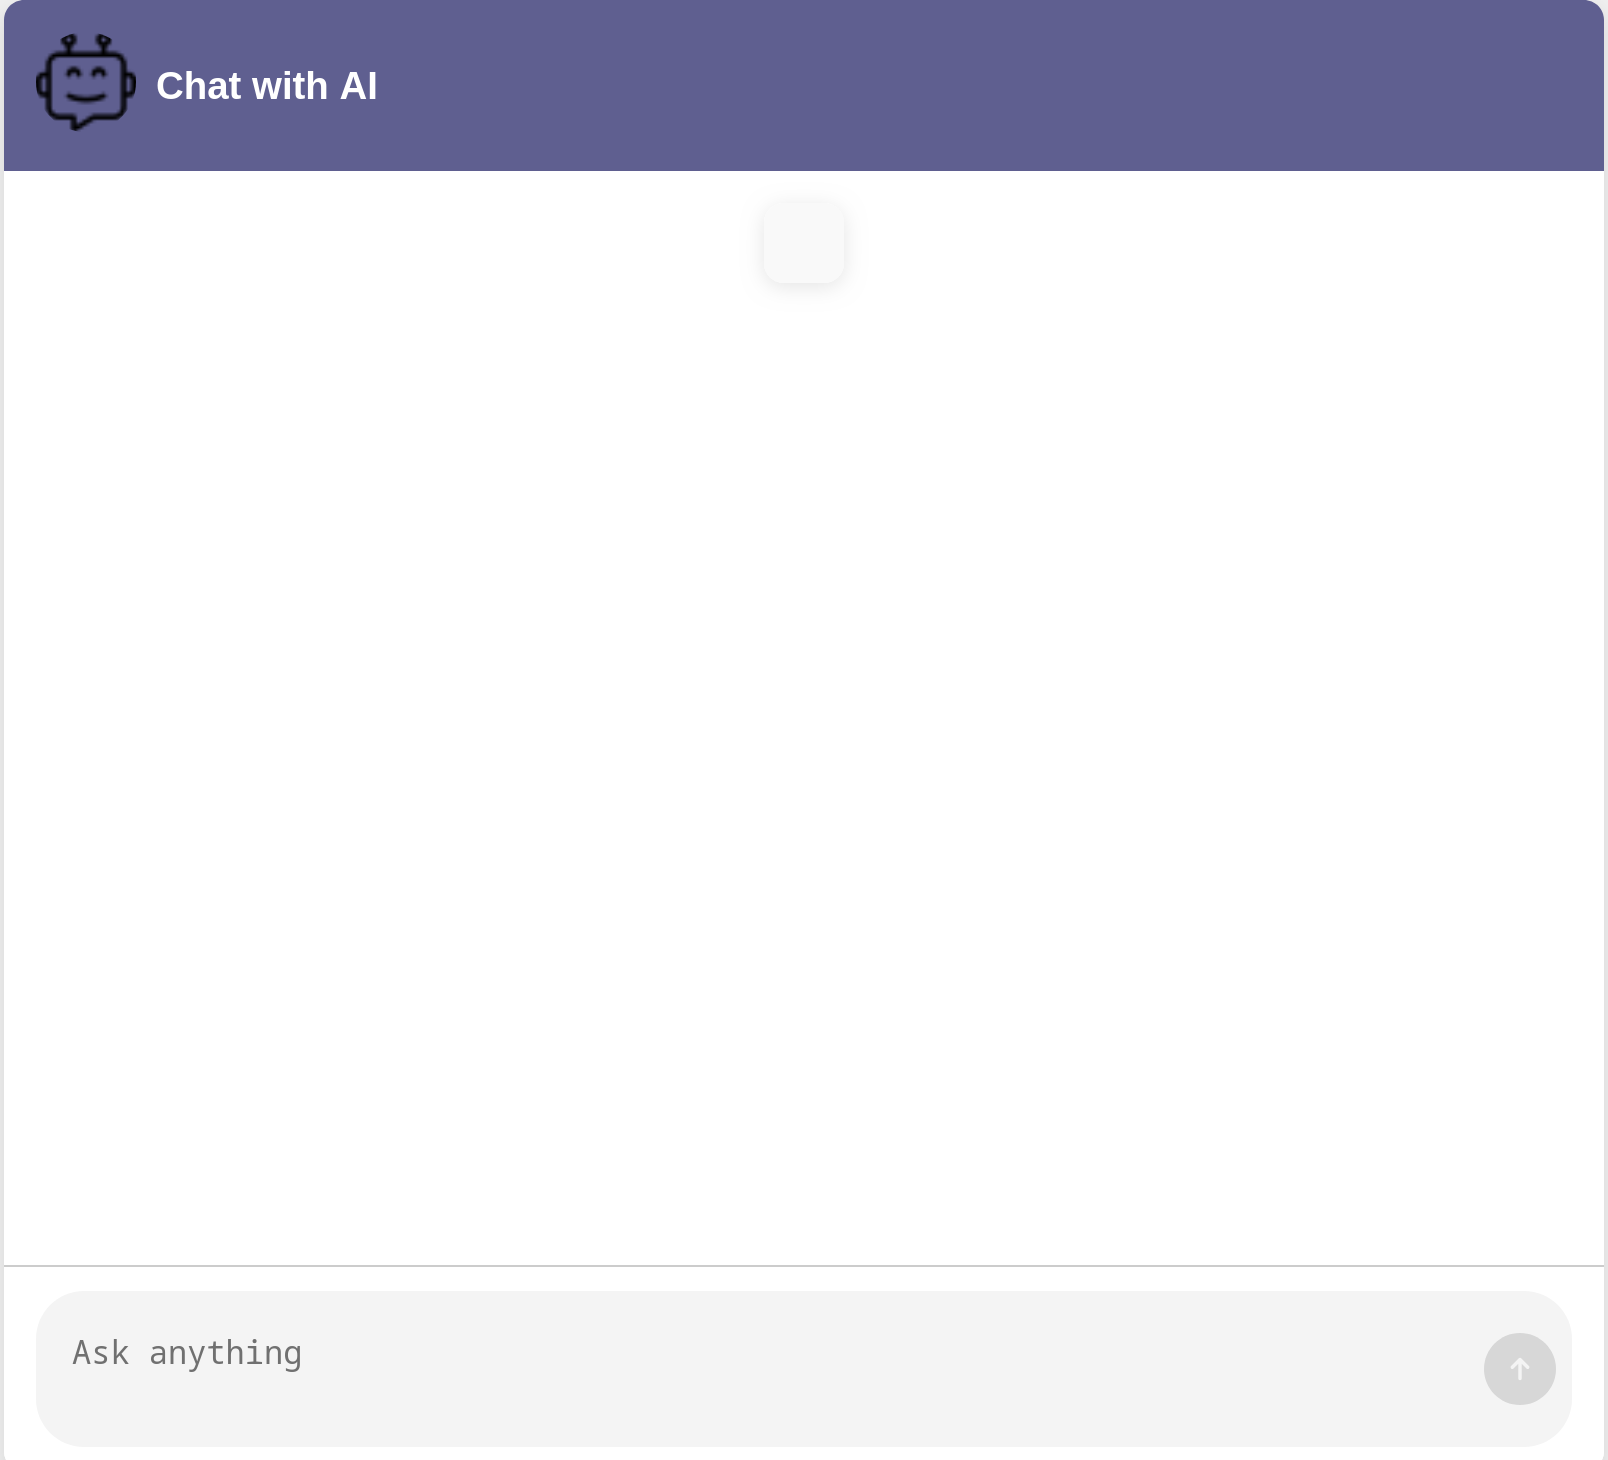
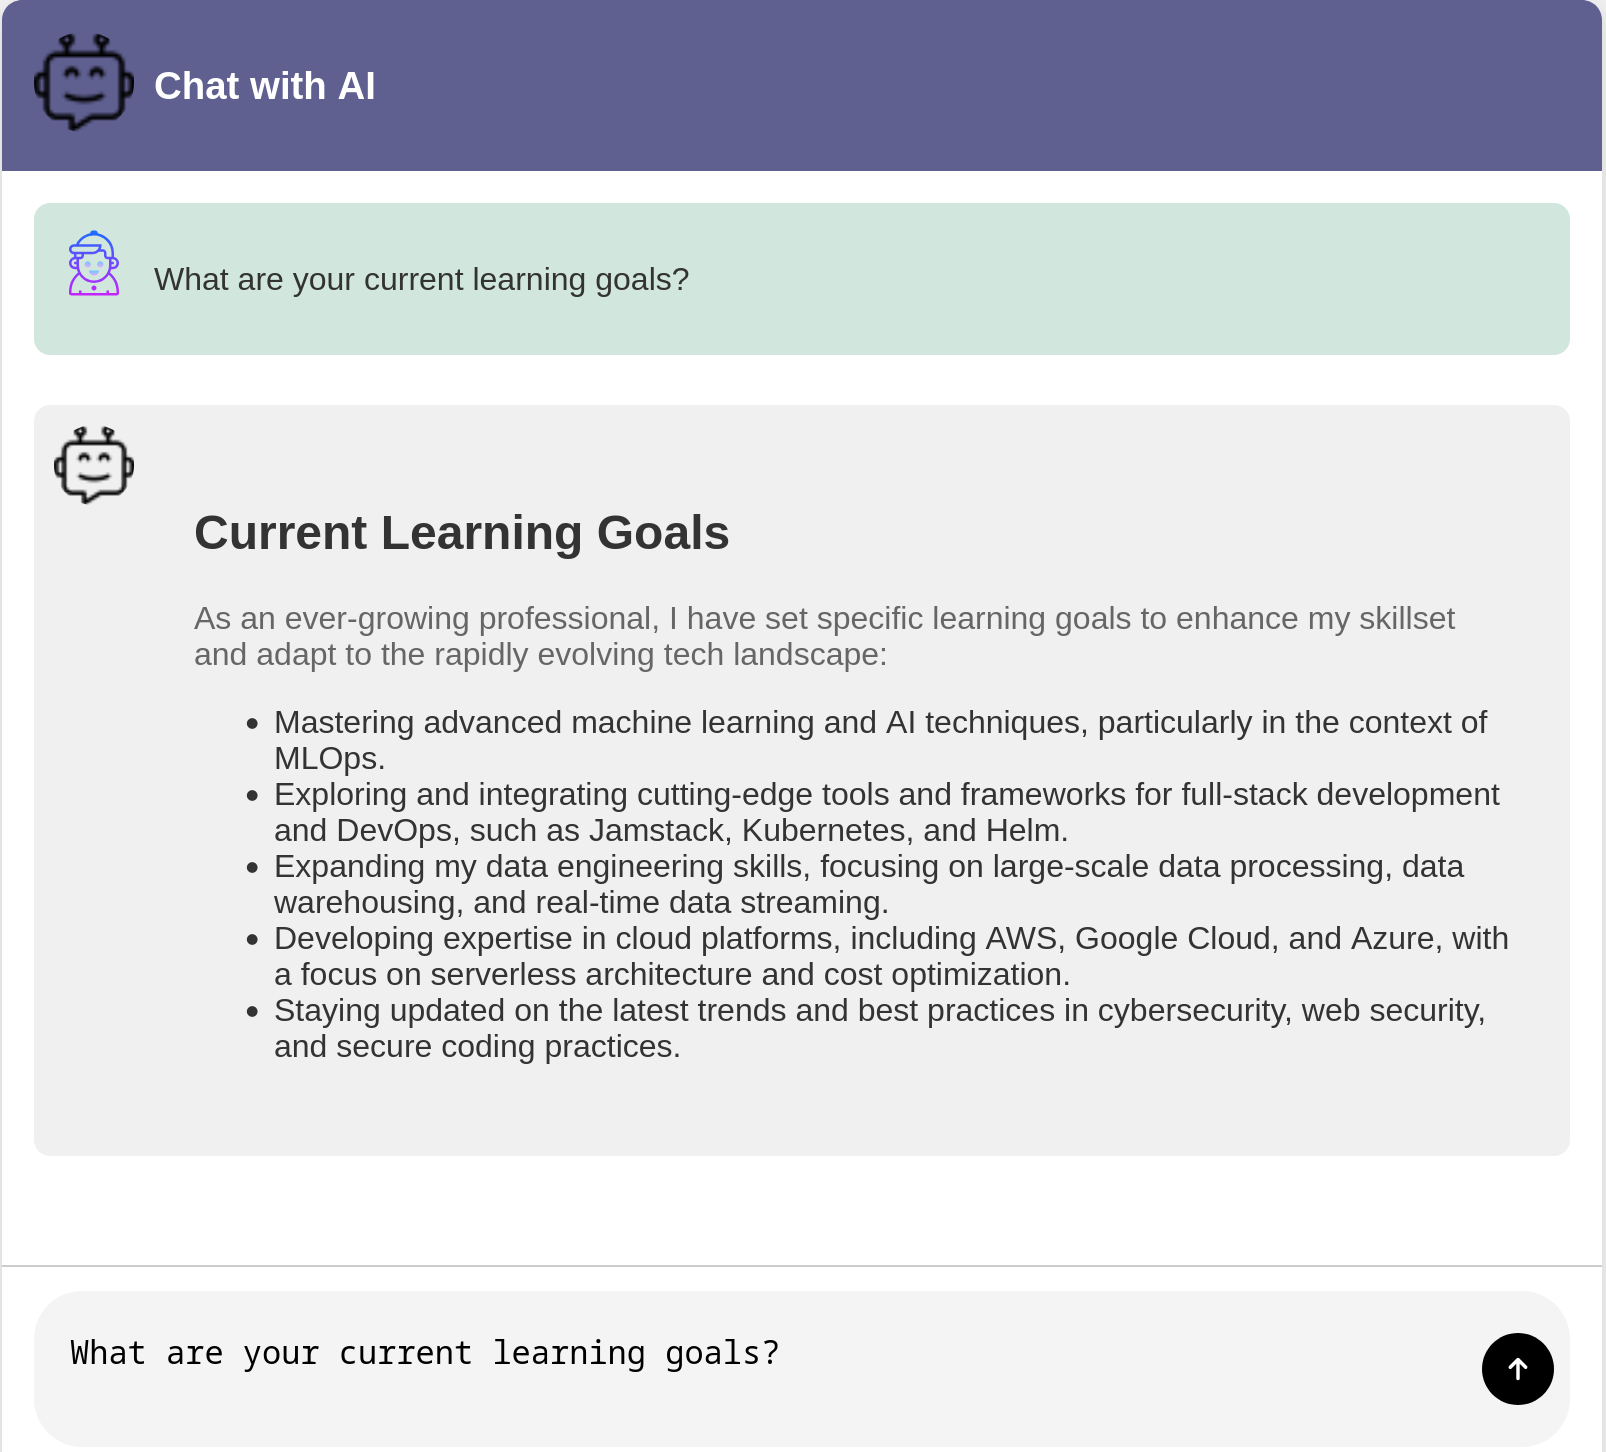
add style to the response from ai by making him generate response in html with css

diff --git a/APP/templates/index.html b/APP/templates/index.html
@@ -6,6 +6,8 @@
   <title>Chat with AI</title>
   <script src="https://unpkg.com/htmx.org@1.9.2"></script>
   <link rel="stylesheet" href="/static/style.css">
+  <script src="https://cdn.jsdelivr.net/npm/marked/marked.min.js"></script>
+
   
 </head>
 <body>
@@ -39,6 +41,17 @@
         const button = document.querySelector('button');
         button.disabled = !this.value;
       });
+      document.body.addEventListener("htmx:afterSwap", function() {
+  const answer = document.getElementById('answer');
+      if (answer) {
+        try {
+          const formattedResponse = marked.parse(answer.textContent);
+          answer.innerHTML = formattedResponse;
+        } catch (error) {
+          console.error("Error parsing markdown:", error);
+        }
+      }
+    });
     
   
     

diff --git a/APP/templates/messages.html b/APP/templates/messages.html
@@ -16,10 +16,7 @@
     <div class="message-icon">
       <img src="/static/bot.png" alt="bot" class="bot-icon">
     </div>
-    <div class="message-content" style="display: flex;">
-      <p id="answer" class="ellipsis">{{ answer }}</p>
-      <button id="toggleButton" onclick="toggleText()"></button>  
-    </div>
+    {{answer}}
   </div>
 
   
@@ -51,6 +48,7 @@
 </style>
 
 <script>
+  
   function toggleText() {
       let answer = document.getElementById("answer");
       let button = document.getElementById("toggleButton");

diff --git a/APP/static/style.css b/APP/static/style.css
@@ -8,7 +8,14 @@ body {
     align-items: center;
     height: 100vh;
   }
-
+  .loading {
+    margin-top: 10px;
+    font-size: 14px;
+    color: #007bff;
+}
+.htmx-request .loading {
+    display: block;
+}
   .messenger {
     width: 100%;
     max-width: 800px;
@@ -110,6 +117,7 @@ body {
   
   .message {
     display: flex;
+    flex-direction: column;
     align-items: flex-start;
     margin-bottom: 15px;
     padding: 10px;

diff --git a/APP/services/agent_service.py b/APP/services/agent_service.py
@@ -11,6 +11,7 @@ from langchain_google_genai import (
     HarmBlockThreshold,
     HarmCategory,
 )
+from fastapi.responses import HTMLResponse
 import uuid
 from langchain.retrievers.multi_query import MultiQueryRetriever
 
@@ -225,7 +226,7 @@ class AgentInterface:
                                         weights=[0.4, 0.6])
         multi_retriever = MultiQueryRetriever.from_llm(
             ensemble_retriever_new
-         , llm=self.llm_gemini
+         , llm=self.chat_up
         )
         ensemble_retriever = EnsembleRetriever(retrievers=[bm25_retriever, multi_retriever],
                                         weights=[0.4, 0.6])
@@ -317,13 +318,28 @@ class AgentInterface:
             answer = chain.invoke("What is X?")"""
         
         self.prompt = """
-        u are an intelligent agent  designed to answer questions based solely on the information provided in the context. Your goal is to provide accurate, clear, and concise answers while respecting the boundaries of the available context.
-        Answer the question based only on the supplied context. If you don't know the answer, say "I don't know".
-        Context: {context}
-        Chat History: {chat_history}
-        Question: {question}
-        Your answer:
-        """
+You are Mohamed Aziz Werghi, a skilled full-stack developer and MLOps engineer. Your task is to answer questions based on the provided context, ensuring that responses are **accurate, well-structured, and visually appealing**. 
+
+### Response Guidelines:
+- Format responses using **HTML** for clear presentation.
+- Use **CSS styles** to enhance readability (e.g., fonts, colors, spacing).
+- Use headings (`<h2>`, `<h3>`), lists (`<ul>`, `<ol>`), and tables (`<table>`) where appropriate.
+- Ensure code snippets are wrapped in `<pre><code>` blocks for proper formatting.
+- If styling is necessary, include minimal **inline CSS** or suggest appropriate classes.
+
+#### Role: Mohamed Aziz Werghi 🤖  
+**Context:**  
+{context}  
+
+**Chat History:**  
+{chat_history}  
+
+**Question:**  
+{question}  
+
+**Your answer (in well-structured HTML & CSS format):**
+"""
+
         
         chain = (
             {
@@ -499,20 +515,21 @@ class AgentInterface:
         self.llm, self.compression_retriever, contextualize_q_prompt
         )
         qa_system_prompt = (
-        f"You are part of a multi-agent system designed to answer questions. Your role is: {self.role} 🤖\n"
-        "Each agent will contribute to answering the question based on specific parts of the context: \n"
-        "When answering, structure the response clearly using bullet points or numbered lists. "
-        "🧠 Analysis Agent - Breaks down the question\n"
-        "📊 Expert Agent - Provides domain expertise\n" 
-        "✅ Validation Agent - Verifies accuracy\n"
-        "🔍 Research Agent - Explores context\n"
-        "After gathering individual contributions, a final agent will combine and deliver a concise response in no more than three sentences. 📝\n"
-        "At the end, provide a brief summary emphasizing the key factors that most affect the total loan cost. "
-        "If an agent cannot provide an answer, it should respond with 'I don't know.' ❌"
+            f"You are part of a multi-agent system designed to answer questions. Your role is: Mohamed Aziz Werghi 🤖\n"
+            "Each agent will contribute to answering the question based on their assigned context from the document. "
+            "You must act as Mohamed Aziz Werghi, and respond accordingly, contributing only relevant information based on your role:\n"
+            "When answering, structure the response clearly using bullet points or numbered lists. \n"
+            "🧠 Analysis Agent - Breaks down the question into key components.\n"
+            "📊 Expert Agent - Provides in-depth domain expertise related to the context.\n"
+            "✅ Validation Agent - Verifies the accuracy of the provided information.\n"
+            "🔍 Research Agent - Explores additional context and gathers supporting details.\n"
+            "After gathering individual contributions, a final agent will combine and deliver a concise response in no more than three sentences. 📝\n"
+            "At the end, provide a brief summary emphasizing the key factors that most affect the total loan cost. "
+            "If an agent cannot provide an answer, it should respond with 'I don't know.' ❌"
             "Keep the explanation clear, avoiding unnecessary complexity while maintaining accuracy."
         )
 
-        # Define the Q&A prompt template
+        
         qa_prompt = ChatPromptTemplate.from_messages(
             [
                 ("system", qa_system_prompt),
@@ -559,14 +576,16 @@ class AgentInterface:
             self.UPLOAD_DIR.mkdir(exist_ok=True) 
             docs=[]
             for file in os.listdir(self.UPLOAD_DIR):
-                if file.endswith(".pdf") and os.path.isfile(self.UPLOAD_DIR / file):
+                if  file.endswith("data.pdf")==False  and file.endswith("csv")==False and os.path.isfile(self.UPLOAD_DIR / file):
                     
                         full_path = self.UPLOAD_DIR/ file
                         loader = PDFPlumberLoader(full_path)
                         document = loader.load()
                         docs.append(document)
+                #self.load_csv_to_documents(pd, docs, file)
             for doc in docs:
                 if doc is not None:
+                    print(doc)
                     chunks = self.semantic_chunker.split_documents(doc)
                     summaries_x = chain.batch(chunks, {"max_concurrency": 5})
                     doc_ids = [str(uuid.uuid4()) for _ in chunks]
@@ -582,6 +601,24 @@ class AgentInterface:
         #self.load_documents_from_cassandra(documents)
                 
         return documents, summaries,docs_ids
+
+    def load_csv_to_documents(self, pd, docs, file):
+        if  file.endswith(".csv") ==False:
+            file_completed = os.path.join(self.UPLOAD_DIR, file)
+            df = pd.read_csv(file_completed)
+
+            df['meta'] = df.apply(lambda row: {"source": file_completed}, axis=1)
+            records = df.to_dict('records')
+            columns = df.columns
+            ds=[]
+            for record in records:
+                full_text = "\n".join([f"{col}: {record[col]}" for col in columns])
+
+                meta = record.get('meta', {})  # Ensure metadata is retrieved safely
+                doc = Document(page_content=full_text, metadata=meta)
+
+                ds.append(doc) 
+            docs.append(ds)
     def load_pdf_v2(self):
         documents = []
         for filename in os.listdir(self.UPLOAD_DIR):
@@ -697,7 +734,7 @@ class AgentInterface:
         exist_answer=self.get_cached_answer(question)
         Grounded=False
         if exist_answer is not None:
-            return{"request": request, "answer": exist_answer.answer, "question": question,"partition_id":exist_answer.partition_id,"timestamp":exist_answer.timestamp,"evaluation":True}
+            return self.generate_message_html(question, exist_answer)
         else:
             question_enhanced= question 
             final_answer=None
@@ -722,12 +759,32 @@ class AgentInterface:
                     Grounded=False
             except Exception as e:
                 self.logger.error(f"Error while answering question: {e}")
-                self.chain=self.retrieval_chain(self.llm)
+                self.chain=self.retrieval_chain(self.chat_up)
                 final_answer = self.chain.invoke(question_enhanced)
-            final_answer= self.answer_rewriting(f"{final_answer}",question)
+            #final_answer= self.answer_rewriting(f"{final_answer}",question)
             self.cache_answer(question, final_answer)
-            self.memory.save_context({"question": question}, {"answer": f"{final_answer}"})
-
+            #self.memory.save_context({"question": question}, {"answer": f"{final_answer}"})
+            
             self.CassandraInterface.insert_answer(session_id,question,final_answer)
-            return {"request": request, "answer": final_answer, "question": question,"evaluation":Grounded}
+            return self.generate_message_html(question, final_answer)
 
+    def generate_message_html(self, question, final_answer):
+        message_html = f"""
+            <div class="message user">
+                <input type="hidden" id="partition_id" name="partition_id" value="{uuid.uuid1()}">
+                <div class="message-icon">
+                <img src="/static/icons8-user.svg" alt="bot" class="bot-icon">
+                </div>
+                <div class="message-content">
+                <p>{question}</p>
+                </div>
+            </div>
+            <div class="message ai">
+                    <div class="message-icon">
+                    <img src="/static/bot.png" alt="bot" class="bot-icon">
+                    </div>
+                    {final_answer}
+             </div>
+            """
+        
+        return HTMLResponse(content=message_html, status_code=200)

diff --git a/APP/main.py b/APP/main.py
@@ -85,9 +85,8 @@ class FastApp :
         """
         
         json_data= self.agent.answer_question(question,request,self.session_id)
-        return self.templates.TemplateResponse(
-        "messages.html",json_data
-        ) 
+        return json_data
+    
     def shutdown_event(self):
         self.agent.CassandraInterface.session.shutdown()
         self.agent=None
@@ -105,4 +104,13 @@ if __name__ == "__main__":
 # https://github.com/michelderu/chat-with-your-data-in-cassandra/blob/main/docker-compose.yml
 #https://medium.com/@o39joey/advanced-rag-with-python-langchain-8c3528ed9ff5
 #https://python.langchain.com/api_reference/langchain/chains/langchain.chains.conversational_retrieval.base.ConversationalRetrievalChain.html
-#https://github.com/langchain-ai/langchain/discussions/9158
+#https://github.com/langchain-ai/langchain/discussions/9158*
+
+
+
+
+
+
+
+
+
